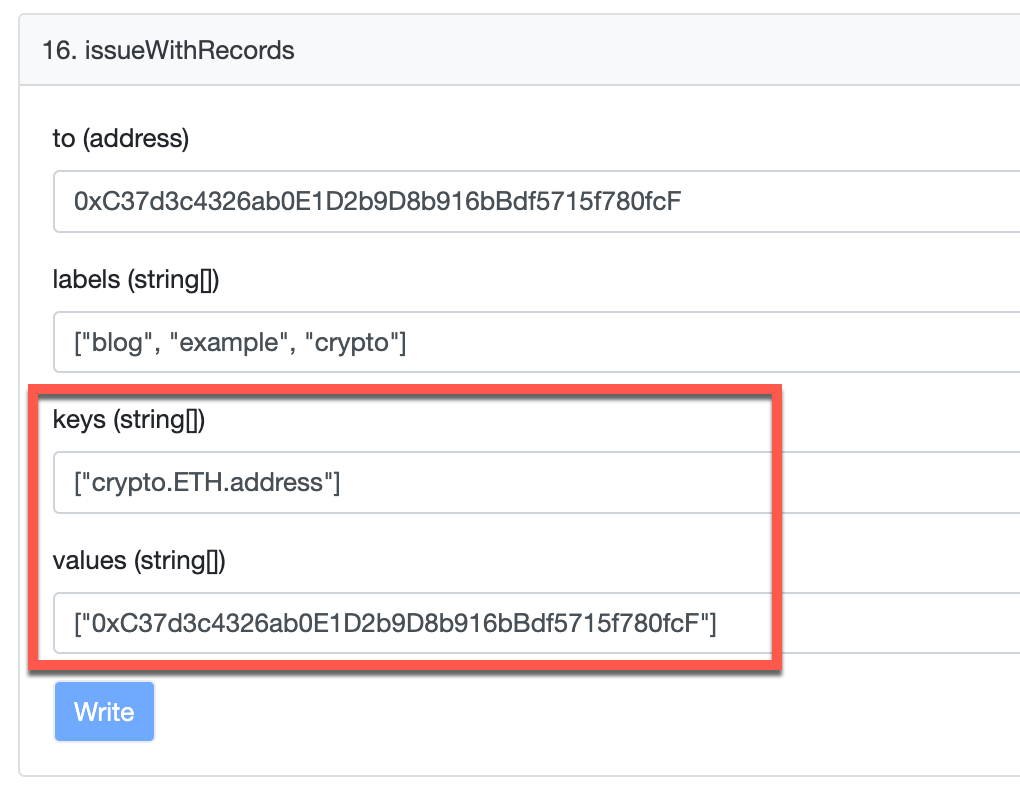
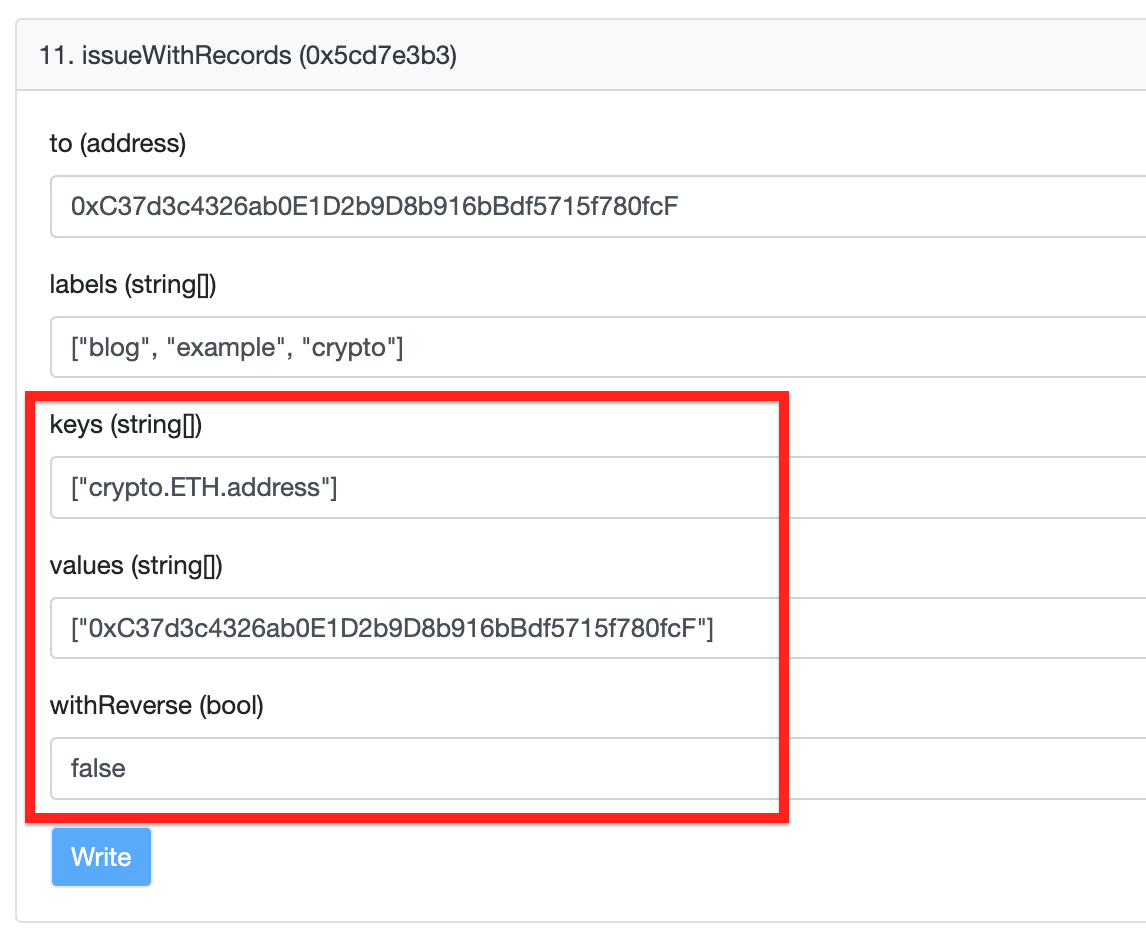
update mint subdomain guide

Changed region(s): [[0.0, 0.0, 1.0, 1.0]]

diff --git a/manage-domains/guides/mint-subdomains-using-contracts.md b/manage-domains/guides/mint-subdomains-using-contracts.md
@@ -73,7 +73,7 @@ Next, add your wallet address that owns the root domain to the `to` field and th
 <figcaption>filling issueWithRecords parameters</figcaption>
 </figure>
 
-Then, add the record(s) you want pre-filled in the subdomain after minting to the `keys` and `values` fields as an array of values. See the [Records Reference](/developer-toolkit/reference/records-reference.md) documentation for supported values. You can also provide empty records if you wish to.
+Then, add the record(s) you want pre-filled in the subdomain after minting to the `keys` and `values` fields as an array of values. See the [Records Reference](/developer-toolkit/reference/records-reference.md) documentation for supported values. You can also provide empty records if you wish to. Set parameter `withReverse` to `false` if you do not need to set reverse record for the subdomain. It is possible to set reverse record for subdomain which is going to be minted to parent's domain owner.
 
 <figure>
 
